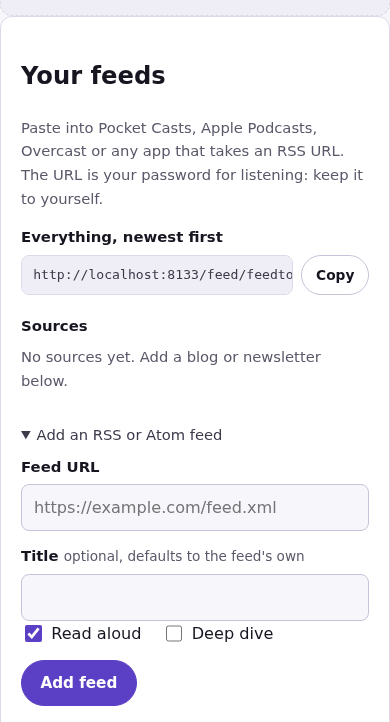
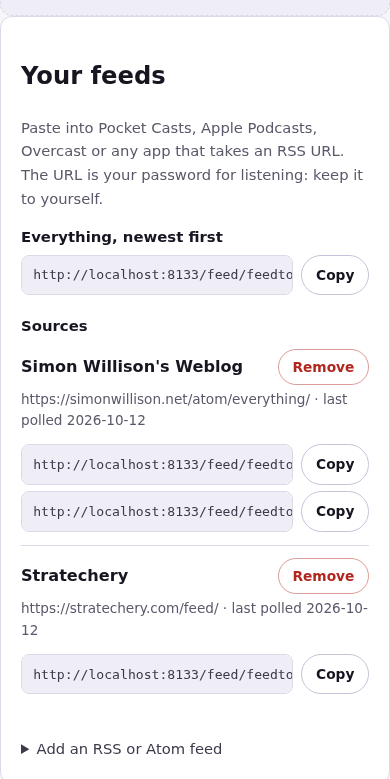
fix(account): address the two P2 findings from the review of audio-feed-lma7
Review b80b0854 (openai-codex/gpt-6-sol, independent of the author lane) returned FAIL
on 7df9ac5b with two P2s. Both were real; both are fixed, and each is pinned so it
cannot come back silently.

1. The markup scanner false-GREENED on an unterminated comment. For
   `<div class="wrap"><!-- <section class="panel"></section></div>` its stripping
   replacement is a no-op and the tag walk sees balanced elements and reports nothing,
   while a browser reads the section and the closing `</div>` as comment text and never
   closes `div.wrap` at all - the exact failure the scanner exists to catch, reported
   CLEAN. A leftover `<!--`, `<script` or `<style` after stripping now short-circuits
   and is reported by name. The check cannot false-positive, because a properly
   terminated opener has already been removed by construction. The reviewer flagged
   this as source-traced; it is now EXECUTED, with the reviewer's own probe string as
   the regression case plus the terminated counterpart, the cross-nesting case, and the
   false-RED direction (a `</div>` written inside a script body or a comment is text).
   The mutant was run: removing the check makes the new test fail with an empty report.

2. The evidence README claimed a fixture it did not have - "two sources and one ready
   episode" against a proof that seeded only a user, which the committed screenshots
   contradicted with "No sources yet." The fixture now holds what the page describes
[…]

diff --git a/tests/account_pages_test.ts b/tests/account_pages_test.ts
@@ -88,6 +88,15 @@ const VOID_TAGS = new Set([
  * elements to the tree and their contents are text. A scanner this small is enough because the
  * pages are server-rendered from template literals and `deno test` has no HTML parser; it is
  * deliberately pointed at the kit pages below rather than at arbitrary HTML.
+ *
+ * AN UNTERMINATED COMMENT OR SCRIPT IS REPORTED, NOT SKIPPED (review of audio-feed-lma7, P2). The
+ * stripping above is a no-op when the terminator is missing, and what is left behind is not "a page
+ * with a stray tag": a browser treats everything after the opener as comment or script text, so it
+ * never closes `div.wrap` at all while this scanner sees balanced elements and returns CLEAN. That
+ * is a false green on the one failure this function exists for, so a leftover opener short-circuits
+ * before the tag walk. The check is free of false positives by construction: a properly terminated
+ * comment, script or style has already been removed by the replacements above, so anything still
+ * starting one of these really is unterminated.
  */
 export function tagNestingProblems(html: string): string[] {
   const markup = html
@@ -95,6 +104,11 @@ export function tagNestingProblems(html: string): string[] {
     .replace(/<script\b[^>]*>[\s\S]*?<\/script>/gi, "")
     .replace(/<style\b[^>]*>[\s\S]*?<\/style>/gi, "");
   const problems: string[] = [];
+  for (const opener of ["<!--", "<script", "<style"]) {
+    if (markup.includes(opener)) {
+      problems.push(`unterminated ${opener} (a browser reads the rest of the page as its text)`);
+    }
+  }
   const open: string[] = [];
   for (
     const [, closing, rawTag, selfClose] of markup.matchAll(
@@ -153,6 +167,38 @@ Deno.test("every kit page's markup actually nests its tags (audio-feed-lma7)", a
     assertEquals(res.status, 200, `${path} should render`);
     assertEquals(tagNestingProblems(await res.text()), [], `${path} markup`);
   }
+});
+
+/**
+ * A scanner is only worth having if the shapes it CANNOT see are pinned, so the cases that matter
+ * are asserted here rather than described (review of audio-feed-lma7, P2). The unterminated comment
+ * is the one that counted: it is a false GREEN, it was found by review rather than by the gate, and
+ * the reviewer flagged it as source-traced rather than executed - which is what this test fixes.
+ */
+Deno.test("the markup scanner reports each failure shape, including the unterminated comment (audio-feed-lma7)", () => {
+  const reports = (html: string) => tagNestingProblems(html).join(" | ");
+
+  // The reviewer's own probe, run rather than traced: a browser reads the section and the closing
+  // `</div>` as comment text, so `div.wrap` never closes, while the tags themselves are balanced.
+  const probe = `<div class="wrap"><!-- <section class="panel"></section></div>`;
+  assert(
+    reports(probe).includes("unterminated <!--"),
+    `unterminated comment must be reported: ${reports(probe)}`,
+  );
+  // The same markup with the comment TERMINATED is clean, so the check above is not just "the
+  // string contains `<!--`" - it is a check on the terminator.
+  assertEquals(tagNestingProblems(`<div class="wrap"><!-- <section class="panel"> --></div>`), []);
+  assert(reports(`<script>const a = 1;`).includes("unterminated <script"));
+  assert(reports(`<style>.a { color: red; }`).includes("unterminated <style"));
+
+  // The defect this bead exists for, as the smallest reproduction of it.
+  assert(reports(`<fieldset class="choices">x</div>`).includes("</div> closes <fieldset>"));
+  // Cross-nesting, which a per-kind tag COUNT would call balanced.
+  assert(tagNestingProblems(`<div><section></div></section>`).length > 0);
+  // A tag written inside a script body or a terminated comment is TEXT, not an element: asserting
+  // this direction matters as much as the other, or the scanner becomes a false-red generator.
+  assertEquals(tagNestingProblems(`<script>const s = "</div>";</script><p>hi</p>`), []);
+  assertEquals(tagNestingProblems(`<p>hi</p><!-- </span></div> -->`), []);
 });
 
 Deno.test("GET /account annotates the send-article form as an agent tool (audio-feed-dc2y)", async () => {

diff --git a/scripts/account-mobile-layout-proof.ts b/scripts/account-mobile-layout-proof.ts
@@ -86,6 +86,54 @@ await runProof("audio-feed-lma7", async (checker) => {
   await stores.metadata.putUser(user);
   const sessionSecret = await createSession(stores.metadata, user.id);
 
+  // TWO SOURCES AND ONE READY EPISODE, because that is what this proof's README claims and what the
+  // committed screenshots show. An earlier revision seeded only a user while the README described
+  // the richer fixture, and the screenshots said "No sources yet." - a README claiming more than the
+  // fixture holds (review of audio-feed-lma7, P2). The shapes mirror scripts/account-harness.ts, and
+  // every instant is fixed so the rendered page stays byte-reproducible.
+  const baseInstant = "2026-10-12T03:30:00.000Z";
+  for (
+    const [id, title, feedUrl, modes] of [
+      ["stratechery", "Stratechery", "https://stratechery.com/feed/", ["direct"]],
+      [
+        "simonw",
+        "Simon Willison's Weblog",
+        "https://simonwillison.net/atom/everything/",
+        ["direct", "deepdive"],
+      ],
+    ] as const
+  ) {
+    await stores.metadata.putSource({
+      id,
+      userId: user.id,
+      title,
+      feedUrl,
+      modes: [...modes],
+      voices: {},
+      createdAt: baseInstant,
+      lastPolledAt: baseInstant,
+    });
+  }
+  await stores.metadata.putEpisode({
+    id: "ep-0",
+    userId: user.id,
+    sourceId: "stratechery",
+    sourceTitle: "Stratechery",
+    articleId: "a-0",
+    mode: "direct",
+    status: "ready",
+    title: "The end of the beginning",
+    createdAt: baseInstant,
+    audioKey: `audio/${user.id}/direct/ep-0.wav`,
+    contentType: "audio/wav",
+    byteLength: 4,
+    readyAt: baseInstant,
+    // Published on older prompts, so /account offers Regenerate - the same reason the account
+    // harness sets it (audio-feed-ktn). It is also what makes the episodes panel render its
+    // section-title buttons rather than an empty state.
+    promptVersion: "old-prompts",
+  });
+
   const { fetch: appFetch } = createApp(ctx, createHandlers(ctx));
   let server: Deno.HttpServer<Deno.NetAddr>;
   try {
@@ -417,7 +465,7 @@ await runProof("audio-feed-lma7", async (checker) => {
               body:
                 `- **Browser:** Headless Chrome over CDP, mobile emulation at 390x844 and 320x720, desktop at 1280x900\n` +
                 `- **Page:** \`GET /account\` from the real app on memory stores, signed in with a seeded session cookie, on the canonical proof port\n` +
-                `- **Data:** one approved user, two sources, one ready episode - enough for every panel to render; the user's feed token is PINNED, because it is rendered on the page and a random one would make the committed screenshots irreproducible`,
+                `- **Data:** one approved user, two sources and one ready episode - enough for every panel to render, and the exact fixture this page describes. The user's feed token is PINNED and every instant is fixed, because both are rendered on the page and a random token or a live clock would make the committed screenshots irreproducible (audio-feed-5sei)`,
             },
             {
               heading: "What the bug was",

diff --git a/docs/evidence/audio-feed-lma7/README.md b/docs/evidence/audio-feed-lma7/README.md
@@ -7,7 +7,7 @@
 
 - **Browser:** Headless Chrome over CDP, mobile emulation at 390x844 and 320x720, desktop at 1280x900
 - **Page:** `GET /account` from the real app on memory stores, signed in with a seeded session cookie, on the canonical proof port
-- **Data:** one approved user, two sources, one ready episode - enough for every panel to render; the user's feed token is PINNED, because it is rendered on the page and a random one would make the committed screenshots irreproducible
+- **Data:** one approved user, two sources and one ready episode - enough for every panel to render, and the exact fixture this page describes. The user's feed token is PINNED and every instant is fixed, because both are rendered on the page and a random token or a live clock would make the committed screenshots irreproducible (audio-feed-5sei)
 
 ## What the bug was
 
@@ -20,7 +20,7 @@ The control document is the served response with the one closer flipped, so it i
 ## Execution Log
 
 ```
-PASS  exactly one closer for the send form's radio group was found in the served markup, and the control flips it  served 80964 bytes closing the group with `</fieldset>`; control 80959 bytes
+PASS  exactly one closer for the send form's radio group was found in the served markup, and the control flips it  served 83146 bytes closing the group with `</fieldset>`; control 83141 bytes
 PASS  the browser is on the served /account page, not redirected to /login  pathname: /account
 PASS  ONE CLOSER IS THE WHOLE BUG: the control markup puts panels outside the page column and the served markup puts none  control: 5 of 6 outside div.wrap (feeds-h x=0 w=390, profile-h x=0 w=390, passkeys-h x=0 w=390, episodes-h x=0 w=390, rotate-h x=0 w=390); served: 0 outside
 PASS  and the escaped panel in the control sits hard against the viewport edge, which is Paul's report  feeds-h: left 0, right 0; profile-h: left 0, right 0; passkeys-h: left 0, right 0; episodes-h: left 0, right 0; rotate-h: left 0, right 0
@@ -31,10 +31,10 @@ PASS  at 390x844 the page does not scroll horizontally  document scrollWidth 390
 PASS  at 390x844 the two-column pair is ONE column (Profile stacked over Passkeys)  profile and passkeys share a left edge and stack vertically
 PASS  at 320x720 the page column exists, so a panel has somewhere to be contained BY  wrap present: true, 6 section.panel
 PASS  at 320x720 EVERY section.panel is a descendant of div.wrap  send-h: inside, feeds-h: inside, profile-h: inside, passkeys-h: inside, episodes-h: inside, rotate-h: inside
-PASS  at 320x720 every panel is inset by the page column's 16px gutter  send-h: left 16, right 16; feeds-h: left 16, right 16; profile-h: left 16, right 16; passkeys-h: left 16, right 16; episodes-h: left 16, right 16; rotate-h: left 16, right 16
-PASS  at 320x720 the page does not scroll horizontally  document scrollWidth 320 vs viewport 320
+PASS  at 320x720 every panel is inset by the page column's 16px gutter  send-h: left 16, right 22; feeds-h: left 16, right 22; profile-h: left 16, right 22; passkeys-h: left 16, right 22; episodes-h: left 16, right 22; rotate-h: left 16, right 22
+PASS  at 320x720 the page does not scroll horizontally  document scrollWidth 326 vs viewport 326
 PASS  at 320x720 the two-column pair is ONE column (Profile stacked over Passkeys)  profile and passkeys share a left edge and stack vertically
-PASS  the 'Your feeds' panel was found on the served page to frame the screenshot  {"x":0,"y":932,"width":390,"height":722}
+PASS  the 'Your feeds' panel was found on the served page to frame the screenshot  {"x":0,"y":932,"width":390,"height":779}
 PASS  at 1280x900 the panels sit inside the 58rem column, not the full window  send-h: left 185, width 896; feeds-h: left 185, width 896; profile-h: left 185, width 440; passkeys-h: left 641, width 440; episodes-h: left 185, width 896; rotate-h: left 185, width 896
 PASS  at 1280x900 Profile and Passkeys pair into two columns  passkeys sits to the right of profile on the same row
 ```
@@ -44,6 +44,6 @@ PASS  at 1280x900 Profile and Passkeys pair into two columns  passkeys sits to t
 - `01-before-390x844.png`: the control - the served markup with the one closer reverted, framed on "Your feeds". The panel runs to both viewport edges.
 - `02-after-390x844.png`: the same frame on the served page. The panel is inset by the page column's gutter.
 - `03-after-1280x900.png`: the desktop column, where Profile and Passkeys still pair.
[6 lines of base64/hex data omitted]
